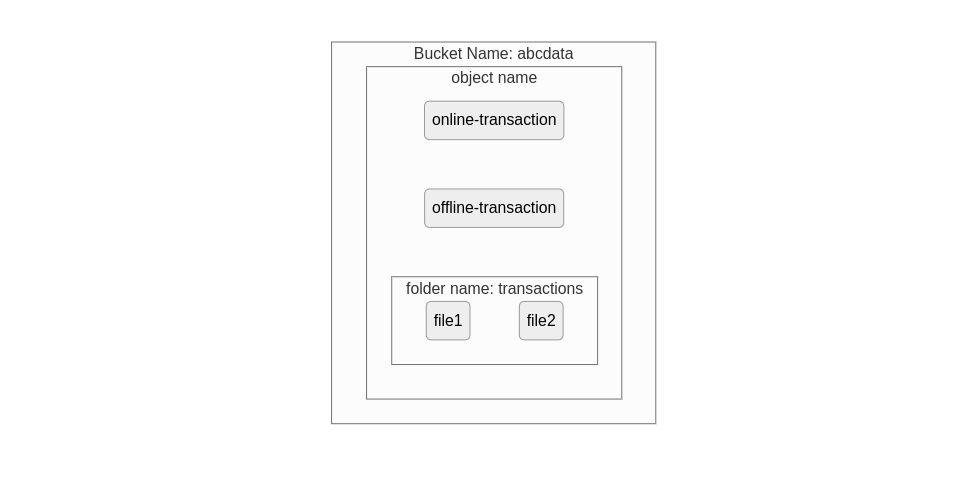
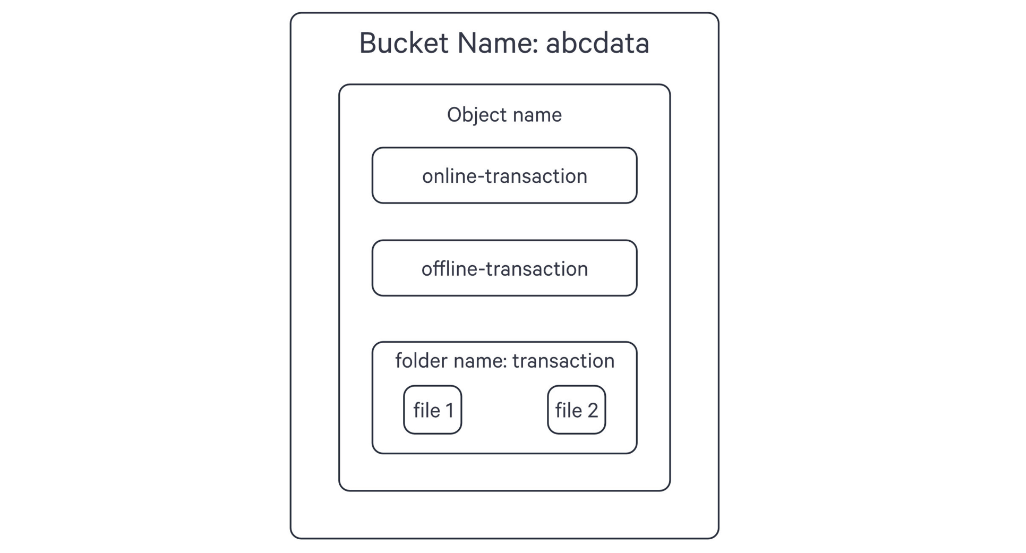
Updated Depot Images

diff --git a/docs/resources/depot.md b/docs/resources/depot.md
@@ -266,9 +266,11 @@ To learn more about Secrets as a Resource and their usage, refer to the document
 
 The `spec` section in the YAML configuration file plays a crucial role in directing the Depot to the precise location of your data and providing it with the hierarchical structure of the data source. By defining the specification parameters, you establish a mapping between the data and the hierarchy followed within DataOS.
 
-The hierarchical structure within DataOS is represented as follows:
+Within DataOS, the hierarchical structure of a data source is represented as follows:
 
 ![Depot Specifications](./depot/depot_hierarchy.png)
+
+<center><i>Hierarchical Structure of a Data Source within DataOS</i></center>
 
 Once this mapping is established, it automatically generates the Uniform Data Link (UDL) that can be used throughout DataOS to access the dataset. As a reminder, the UDL has the format: `dataos://[depot]:[collection]/[dataset]`.
 
@@ -312,6 +314,7 @@ By appropriately configuring the specifications, you ensure that the Depot is ac
 Depot provides flexibility in mapping the hierarchy for file storage systems. Let's consider the example of an [Amazon S3](./depot/depot_config_templates/amazon_s3.md) bucket, which has a flat structure consisting of buckets, folders, and objects. By understanding the hierarchy and utilizing the appropriate configurations, you can effectively map the structure to DataOS components.
 
 ![Bucket](./depot/create_depot_2.png)
+<center><i>Amazon S3 Bucket Structure</i></center>
 
 Here's an example of creating a depot named 's3depot' that maps the following structure:
 
